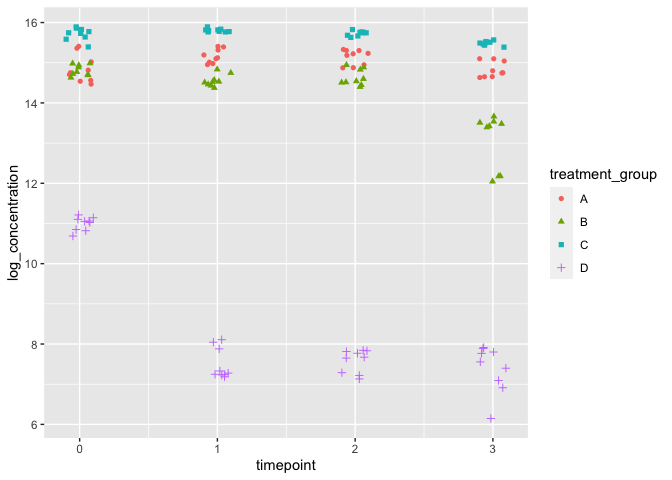
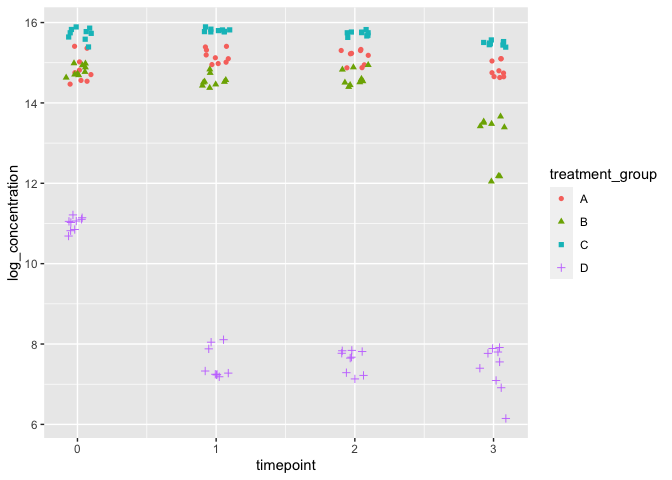
Seed jitter for reproducibility

diff --git a/decay-experiment/qpcr_analysis.md b/decay-experiment/qpcr_analysis.md
@@ -409,9 +409,8 @@ data_concentration |>
   ggplot(
     aes(timepoint, log_concentration, shape = treatment_group, color = treatment_group)
     ) +
-  geom_jitter(
-    height = 0,
-    width = 0.1
+  geom_point(
+    position = position_jitter(height = 0, width = 0.1, seed = 3579237)
   )
 ```
 
